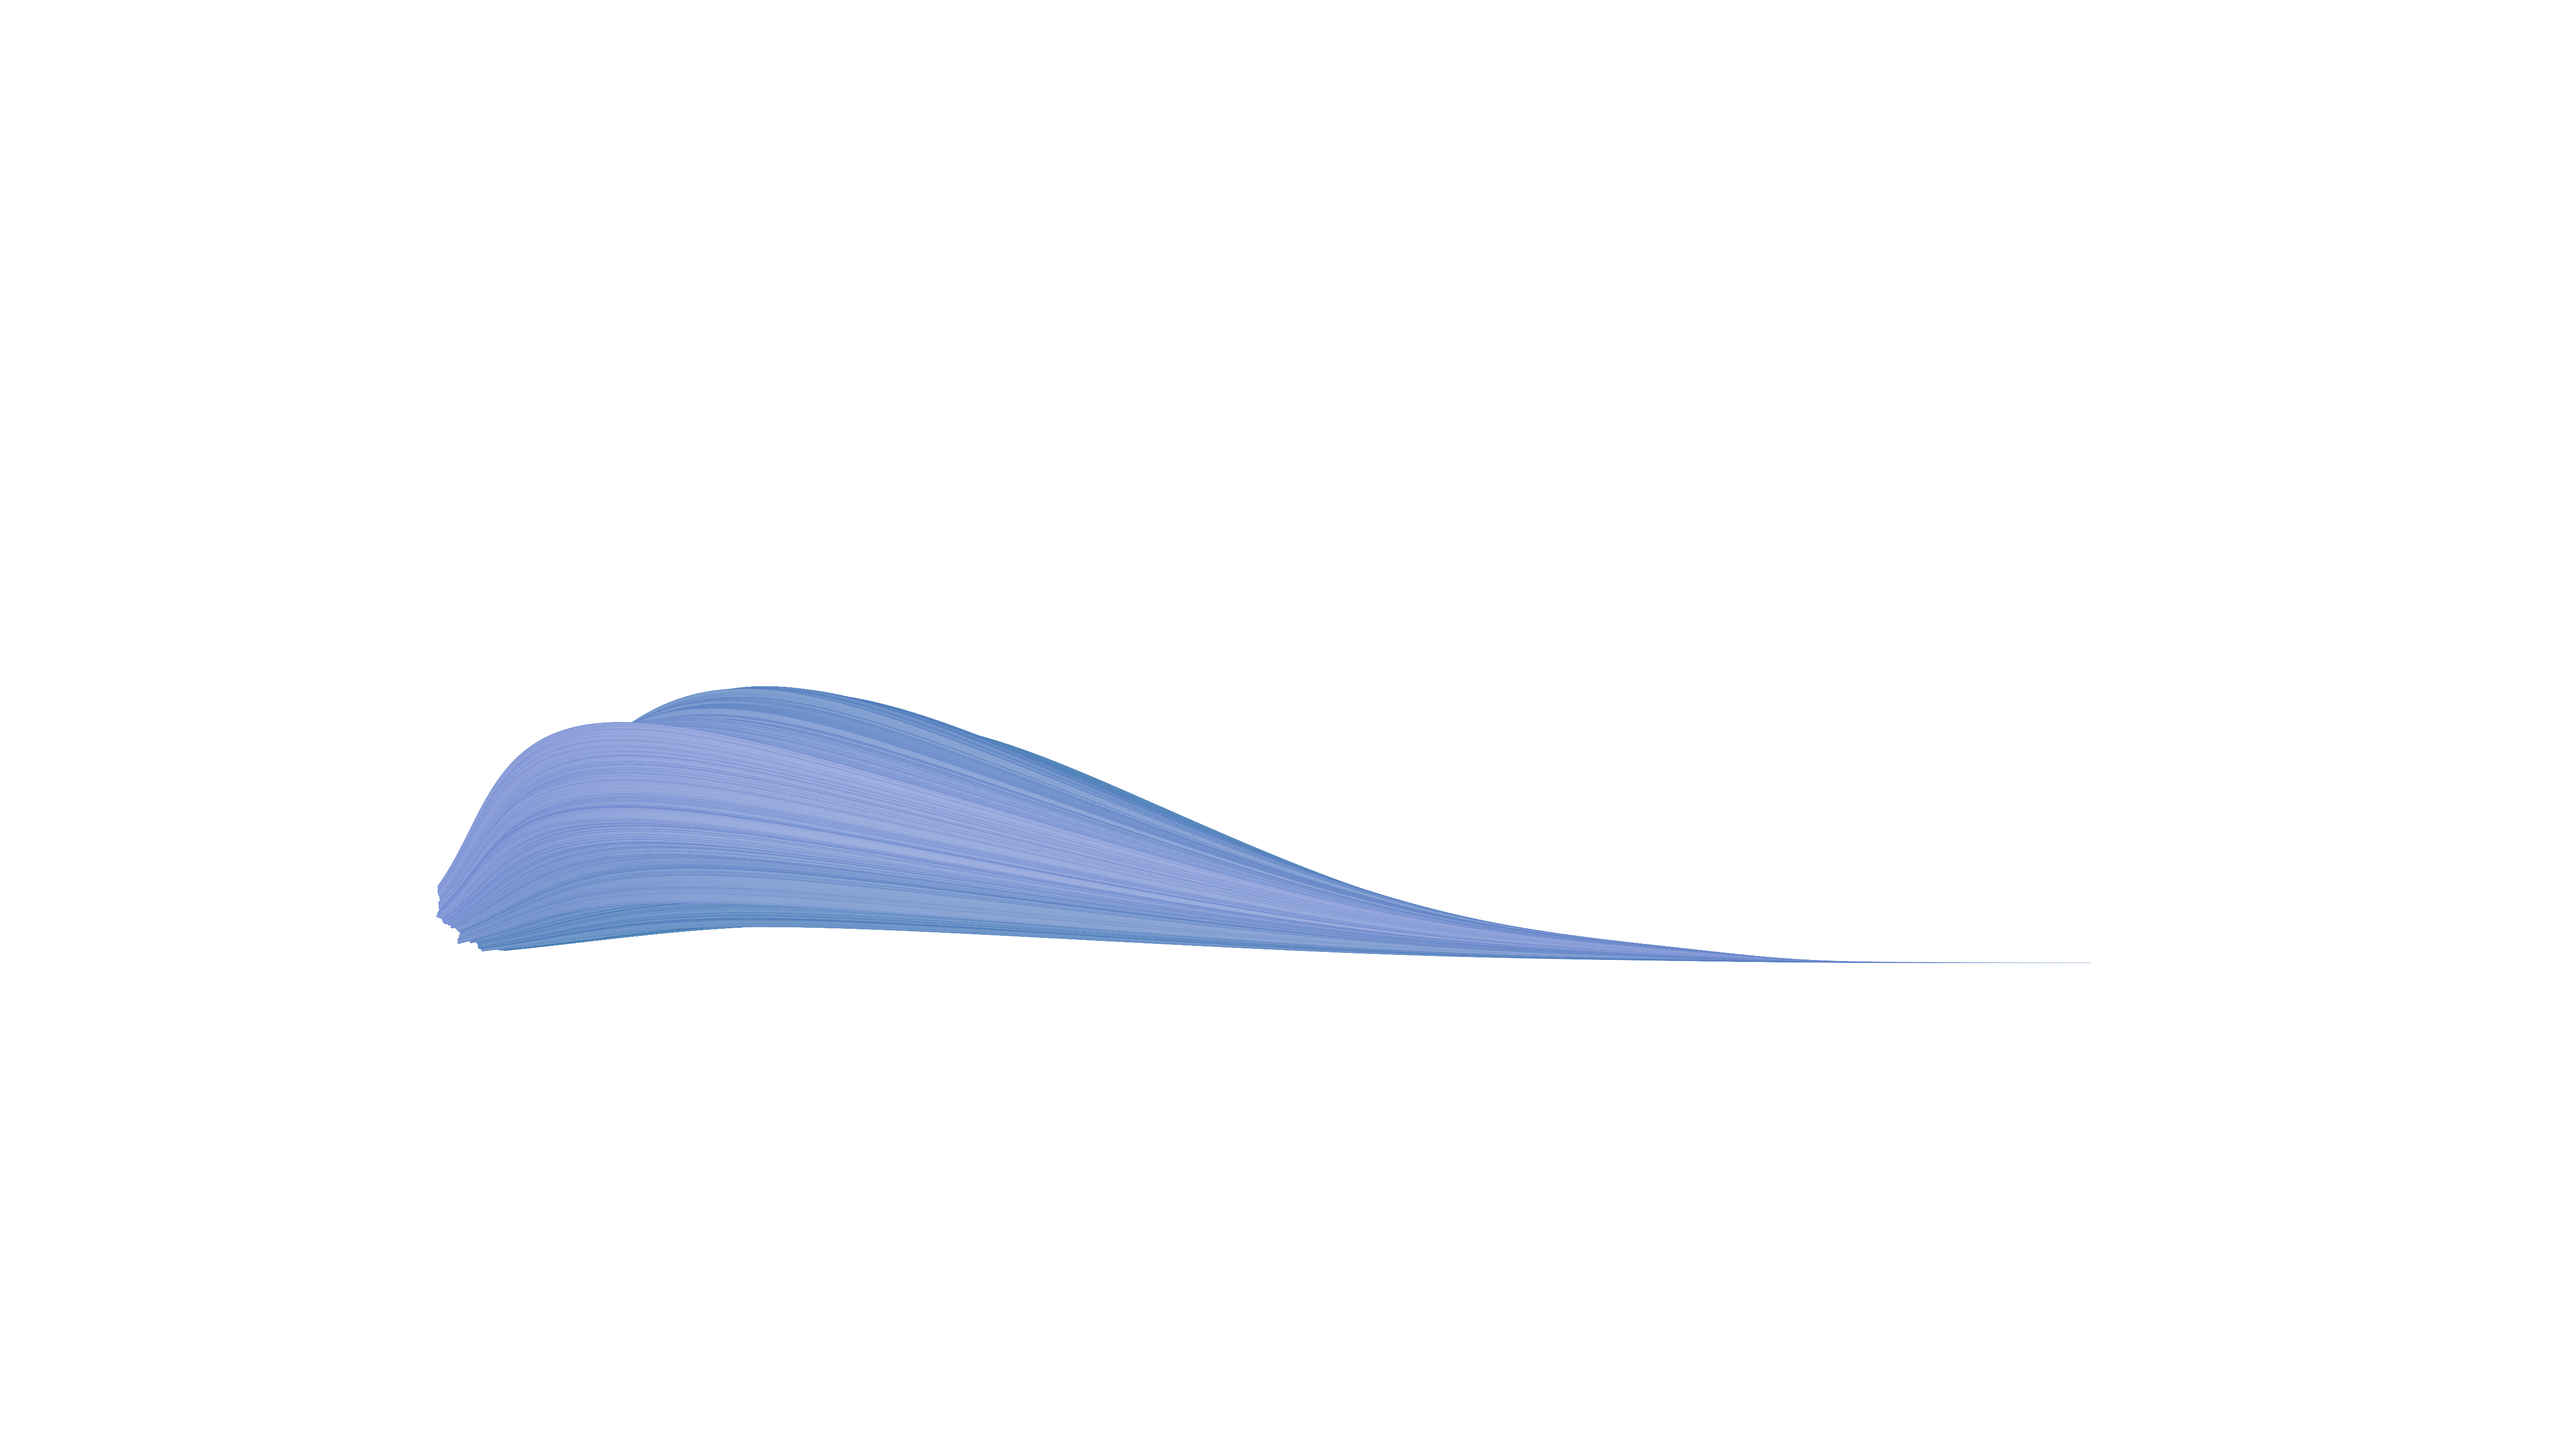
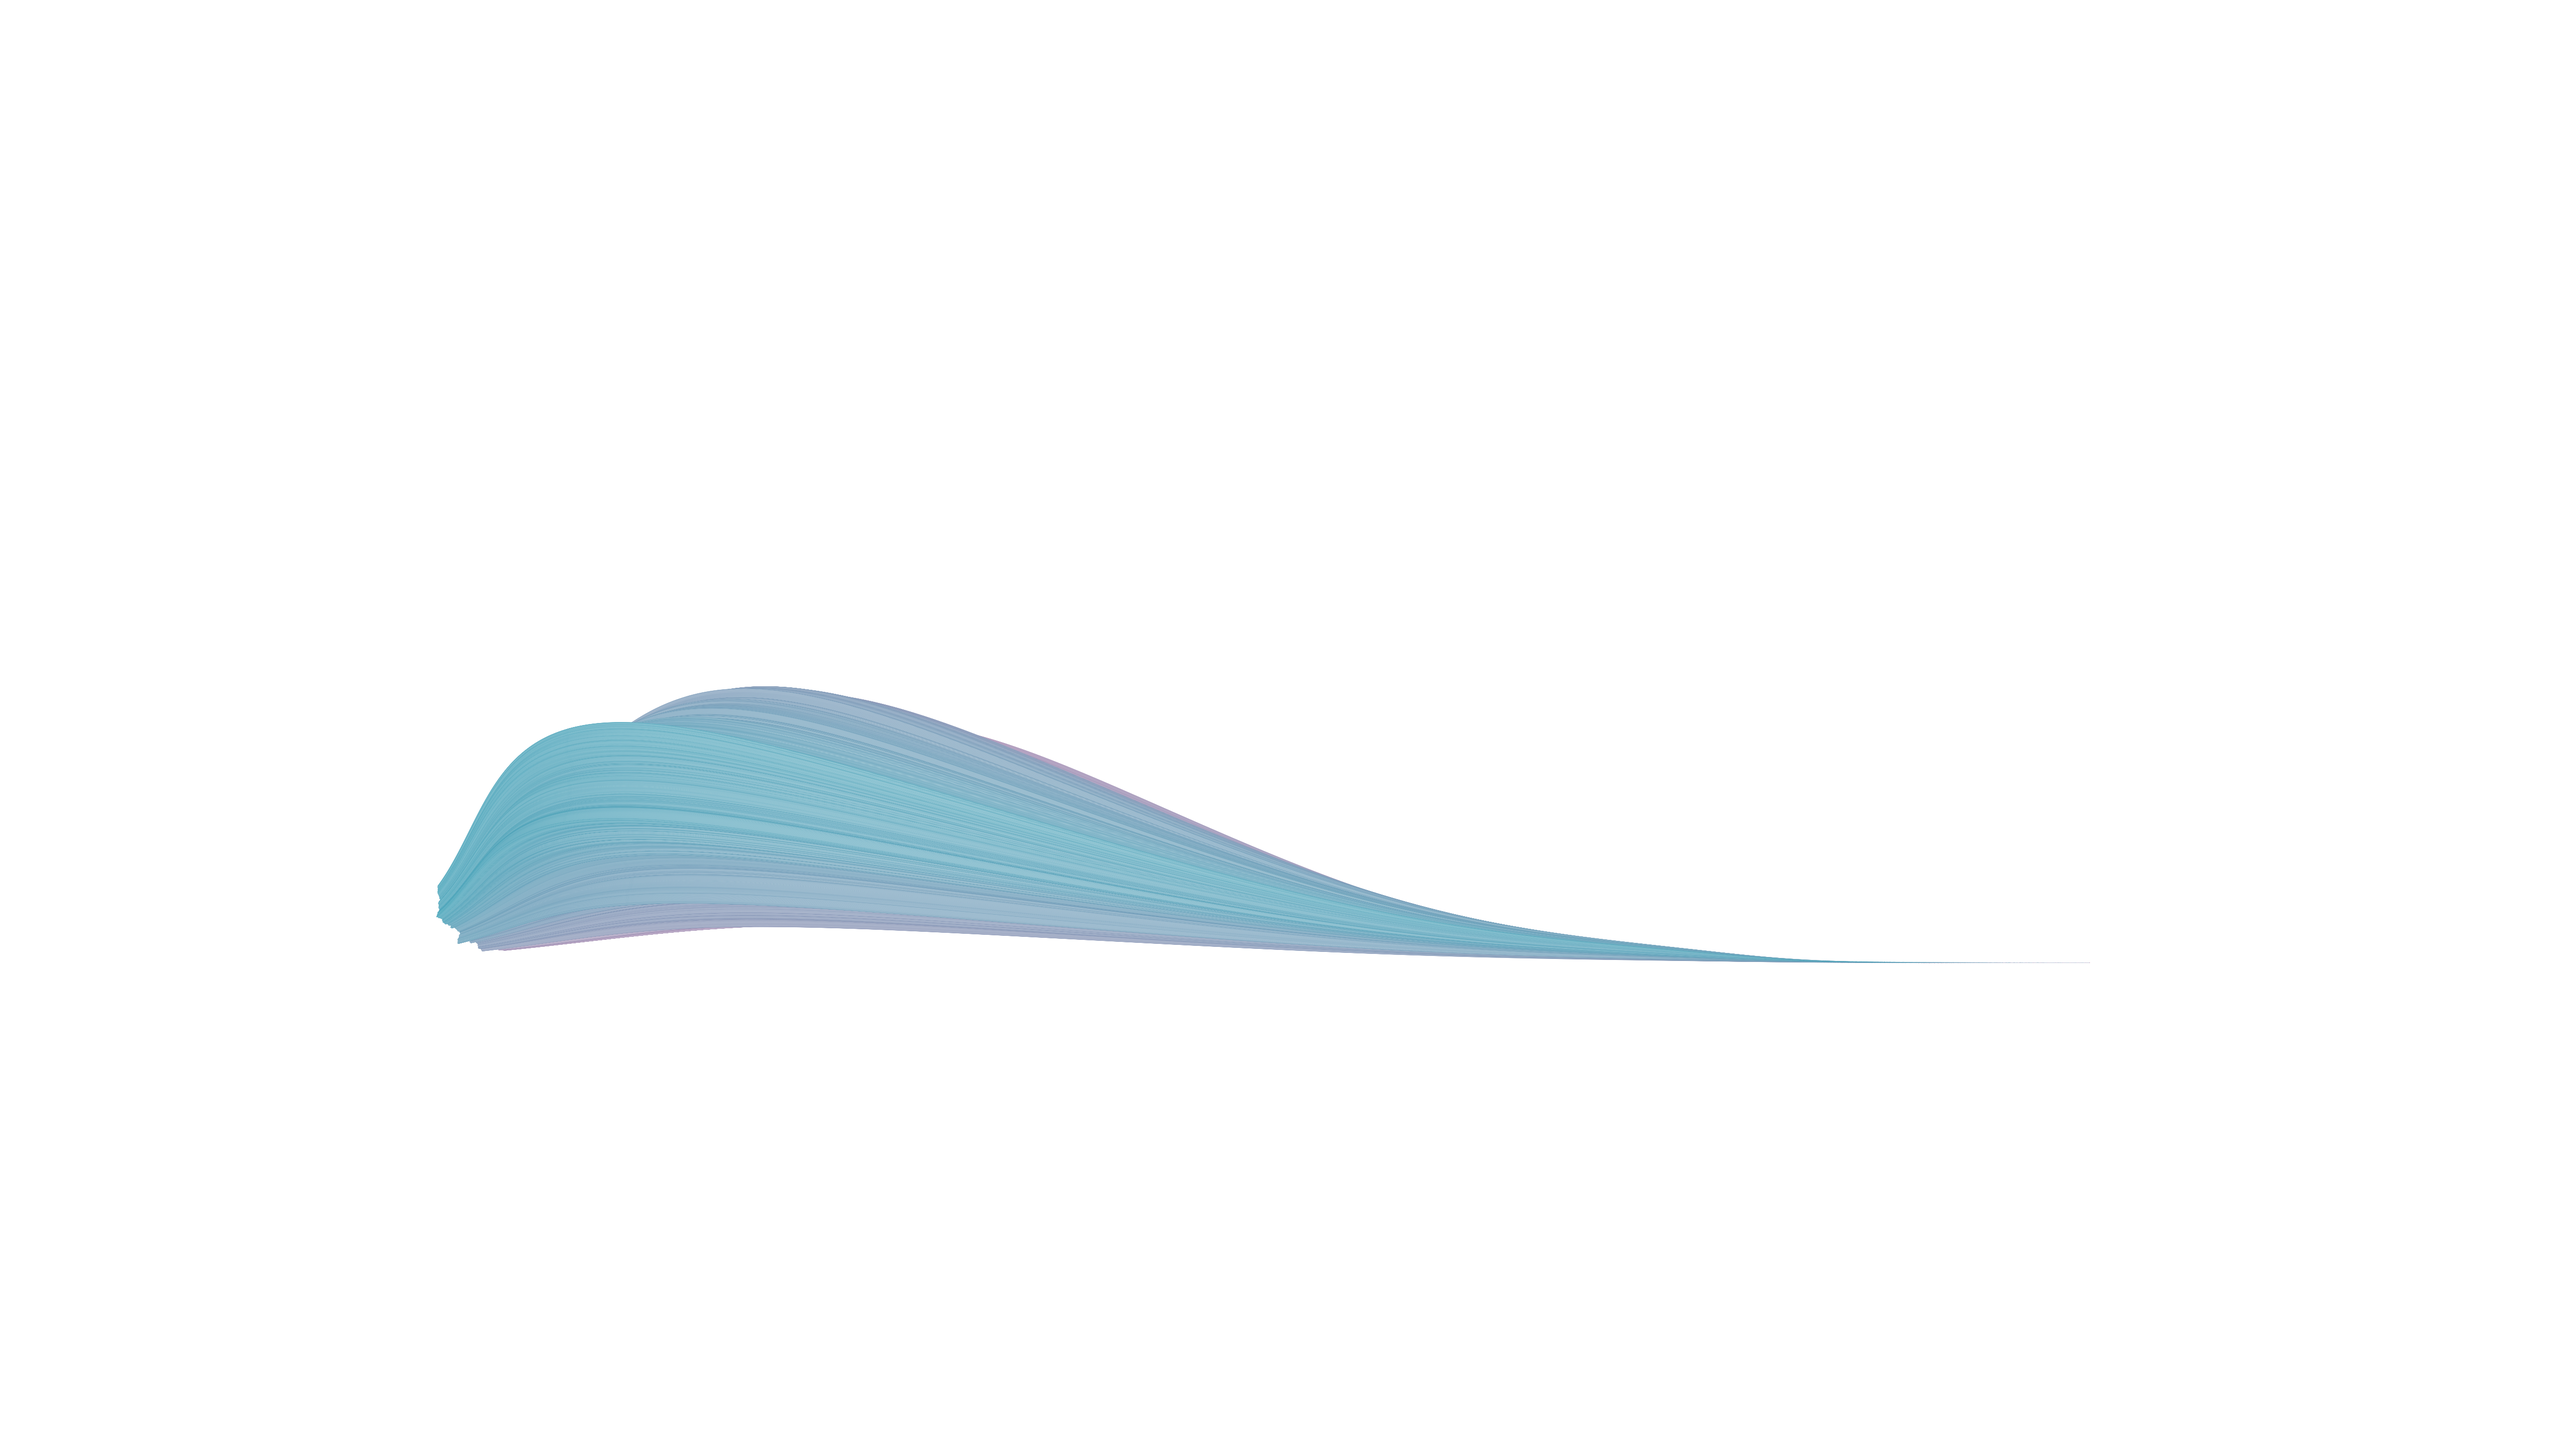
tweaks

Changed region(s): [[0.1562, 0.4688, 0.6875, 0.6875]]

diff --git a/colors.js b/colors.js
@@ -1,53 +1,53 @@
 const variantColors = [
   {
     variant: 'B',
-    color1: '#0087B2',
-    color2: '#5B108A'
-  },
-  {
-    variant: 'B.1.1',
-    color1: '#6E84D0',
-    color2: '#005793'
-  },
-  {
-    variant: 'B.1.1.1',
-    color1: '#B57ADE',
-    color2: '#007B8A'
-  },
-  {
-    variant: 'B.1.1.257',
-    color1: '#FF928E',
-    color2: '#ABB17B'
-  },
-  {
-    variant: 'B.1.1.315',
-    color1: '#FF7BBA',
-    color2: '#6AA46F'
-  },
-  {
-    variant: 'B.1.177',
-    color1: '#C8EF25',
-    color2: '#f0b6d1'
-  },
-  {
-    variant: 'B.1.98',
-    color1: '#FFB04F',
-    color2: '#D8BDA0'
+    color1: '#8DCDBE',
+    color2: '#D3B4DC'
   },
   {
     variant: 'B.40',
-    color1: '#F2D000',
-    color2: '#F1CCCA'
+    color1: '#64BEBF',
+    color2: '#D49CCD'
   },
   {
-    variant: 'VOC 202012/01',
-    color1: '#E873D6',
-    color2: '#00937A'
+    variant: 'B.1.1',
+    color1: '#46A4B9',
+    color2: '#CA7EAD'
   },
+  // {
+  //   variant: 'B.1.1.1',
+  //   color1: '#46A4B9',
+  //   color2: '#46A4B9'
+  // },
+  // {
+  //   variant: 'B.1.1.257',
+  //   color1: '#46A4B9',
+  //   color2: '#46A4B9'
+  // },
+  // {
+  //   variant: 'B.1.1.315',
+  //   color1: '#FF7BBA',
+  //   color2: '#6AA46F'
+  // },
   {
     variant: 'minority variants',
-    color1: '#333333',
-    color2: '#F1F1F1'
+    color1: '#4183AE',
+    color2: '#B66084'
+  },
+  {
+    variant: 'B.1.177',
+    color1: '#4D5D9C',
+    color2: '#9B4254'
+  },
+  // {
+  //   variant: 'B.1.98',
+  //   color1: '#FFB04F',
+  //   color2: '#D8BDA0'
+  // },
+  {
+    variant: 'VOC 202012/01',
+    color1: '#6B0070',
+    color2: '#510F00'
   }
 ];
 

diff --git a/index.js b/index.js
@@ -13,7 +13,9 @@ const { variantColors } = require('./colors');
   const { xScale, yScale, rScale } = defineScales(data, config.width, config.height);
   
   // plot
-  const variants = [...new Set(data.map(d => d.variant))];//.filter(d => /^voc/i.test(d));//.filter(d => d === 'B')//.filter(d => d === 'B')//.filter(d => /^voc/i.test(d));
+  const variants = [...new Set(data.map(d => d.variant))]
+    .filter(d => !config.excludeVariants.includes(d));
+
   for (variant of variants) {
     // loop through variants
     // one plot per variant
@@ -28,7 +30,7 @@ const { variantColors } = require('./colors');
     const { color1, color2 } = variantColors.find(d => d.variant === variant);
 
     if (variant === 'B') {
-      plotMarks(ctx, xScale, yScale, config.dateLabels);
+      // plotMarks(ctx, xScale, yScale, config.dateLabels);
     }
 
     plotFlow(ctx,

diff --git a/config.js b/config.js
@@ -1,8 +1,14 @@
 module.exports = {
   mutantDataPath: 'data/mutant_data.csv',
   shapePath: 'data/london.json',
-  width: 2560*2,
-  height: 1440*2,
+  excludeVariants: [
+    'B.1.1.1',
+    'B.1.1.257',
+    'B.1.1.315',
+    'B.1.98'
+  ],
+  width: 2560 * 2,
+  height: 1440 * 2,
   backgroundColor: '#FFFFFF',
   fillColor: '#FFFFFF',
   lastFillColor: '#333333',
